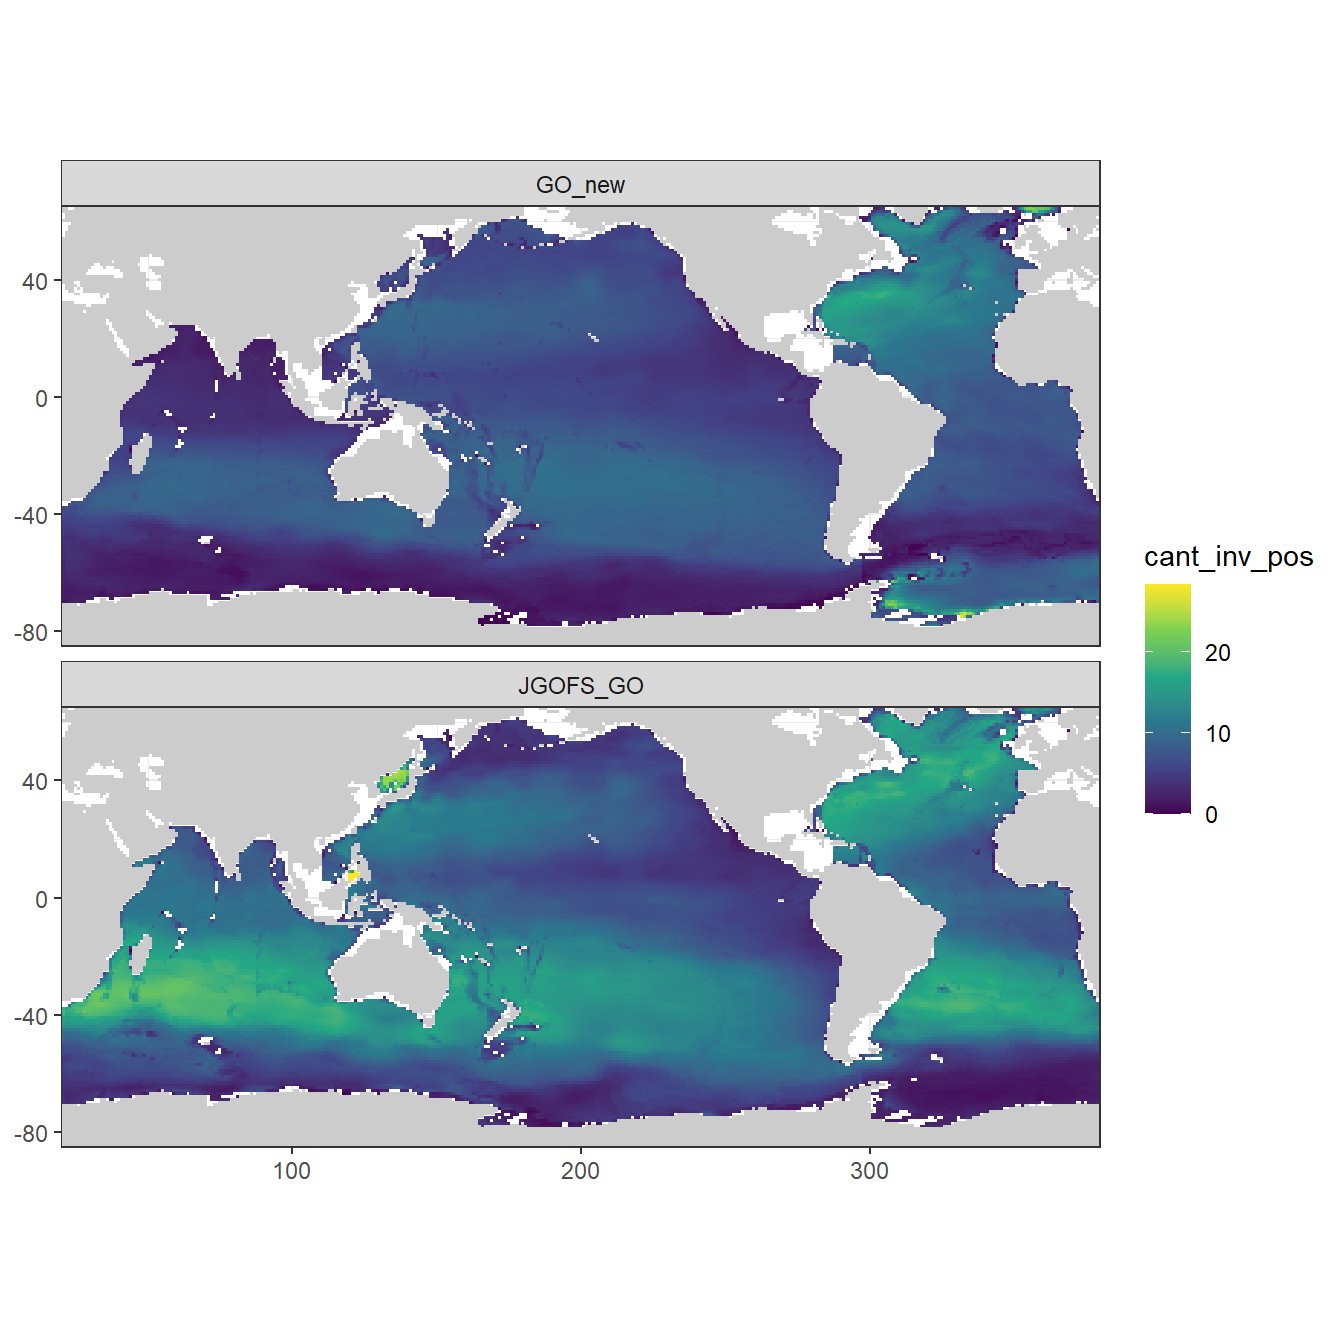
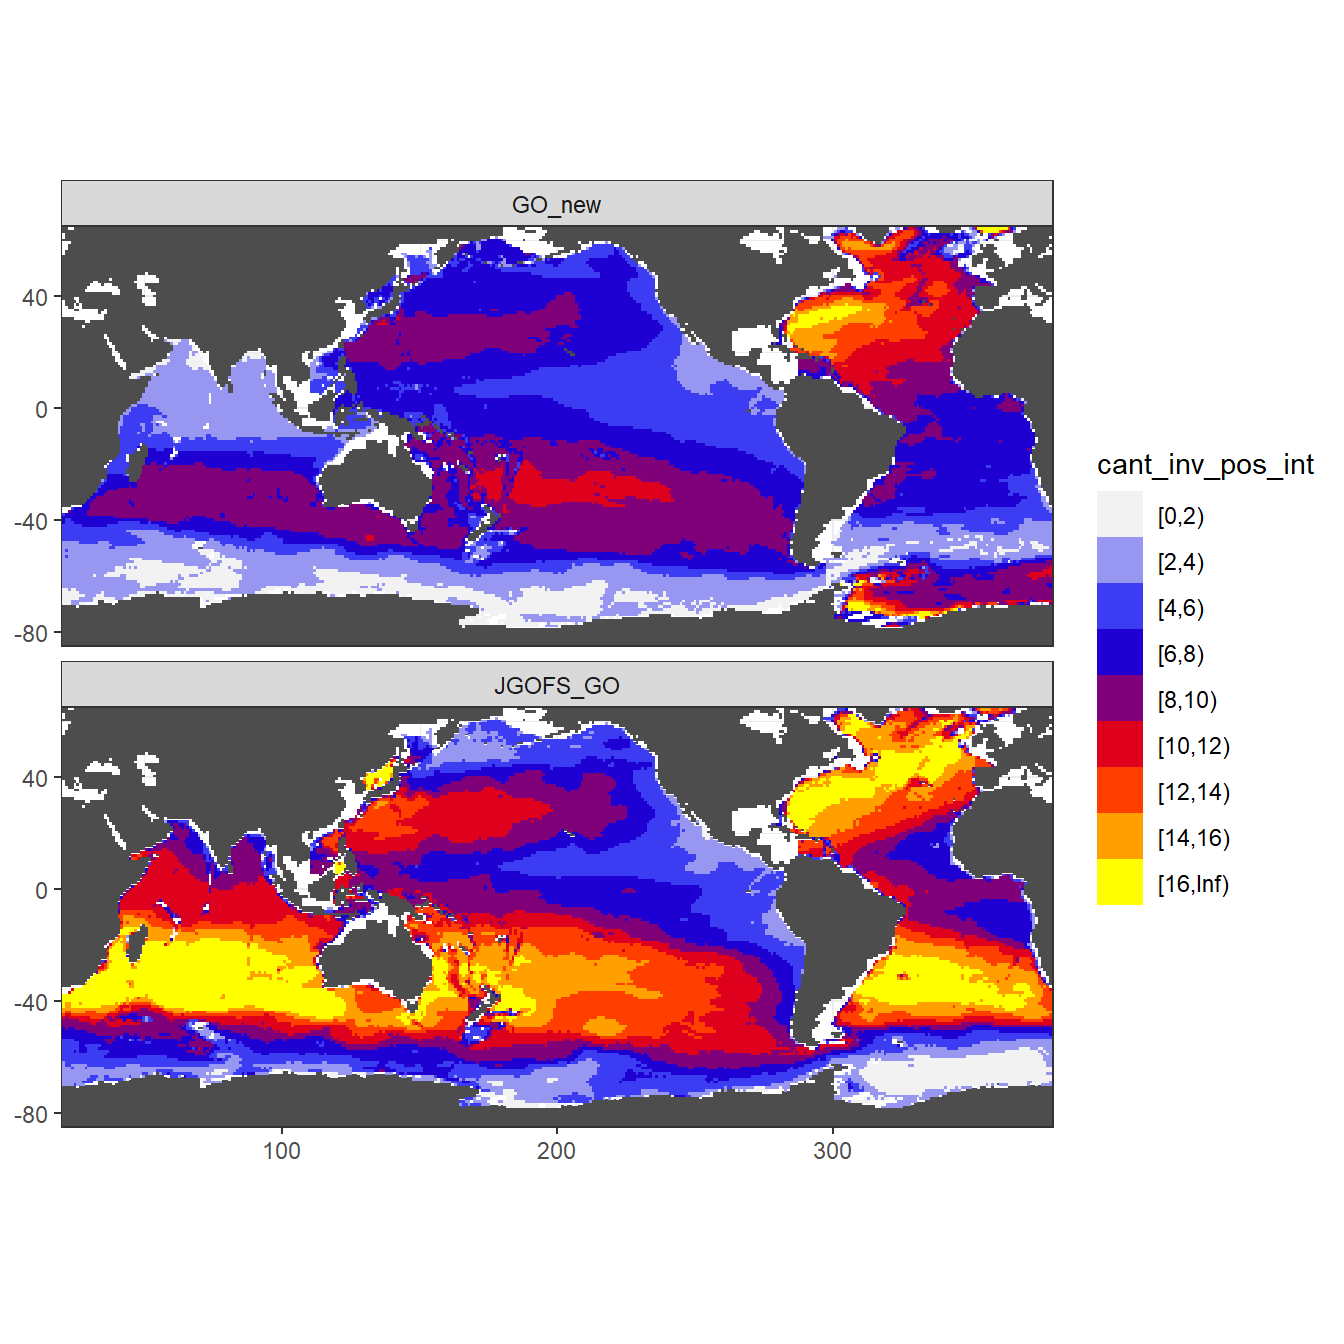
Build site.

diff --git a/docs/analysis_this_study.html b/docs/analysis_this_study.html
@@ -502,7 +502,7 @@ div.tocify {
 
 <h1 class="title toc-ignore">Analysis of Cant estimates</h1>
 <h4 class="author">Jens Daniel Müller</h4>
-<h4 class="date">17 September, 2020</h4>
+<h4 class="date">18 September, 2020</h4>
 
 </div>
 
@@ -527,7 +527,7 @@ div.tocify {
 <div class="tab-content">
 <div id="summary" class="tab-pane fade in active">
 <p>
-<strong>Last updated:</strong> 2020-09-17
+<strong>Last updated:</strong> 2020-09-18
 </p>
 <p>
 <strong>Checks:</strong> <span class="glyphicon glyphicon-ok text-success" aria-hidden="true"></span> 7 <span class="glyphicon glyphicon-exclamation-sign text-danger" aria-hidden="true"></span> 0
@@ -618,16 +618,16 @@ This reproducible <a href="http://rmarkdown.rstudio.com">R Markdown</a> analysis
 <div class="panel panel-default">
 <div class="panel-heading">
 <p class="panel-title">
-<a data-toggle="collapse" data-parent="#workflowr-checks" href="#strongRepositoryversionstrongahrefhttpsgithubcomjensdanielmuellerCanteMLRtree10c1a10e92b14633f68d5026d83584b859e0f98btargetblank10c1a10a"> <span class="glyphicon glyphicon-ok text-success" aria-hidden="true"></span> <strong>Repository version:</strong> <a href="https://github.com/jens-daniel-mueller/Cant_eMLR/tree/10c1a10e92b14633f68d5026d83584b859e0f98b" target="_blank">10c1a10</a> </a>
+<a data-toggle="collapse" data-parent="#workflowr-checks" href="#strongRepositoryversionstrongahrefhttpsgithubcomjensdanielmuellerCanteMLRtreedf65c0a7be403cb6f034bf72b37633b2c0448ec1targetblankdf65c0aa"> <span class="glyphicon glyphicon-ok text-success" aria-hidden="true"></span> <strong>Repository version:</strong> <a href="https://github.com/jens-daniel-mueller/Cant_eMLR/tree/df65c0a7be403cb6f034bf72b37633b2c0448ec1" target="_blank">df65c0a</a> </a>
 </p>
 </div>
[2 lines of base64/hex data omitted]
 <div class="panel-body">
 <p>
 Great! You are using Git for version control. Tracking code development and connecting the code version to the results is critical for reproducibility.
 </p>
 <p>
-The results in this page were generated with repository version <a href="https://github.com/jens-daniel-mueller/Cant_eMLR/tree/10c1a10e92b14633f68d5026d83584b859e0f98b" target="_blank">10c1a10</a>. See the <em>Past versions</em> tab to see a history of the changes made to the R Markdown and HTML files.
+The results in this page were generated with repository version <a href="https://github.com/jens-daniel-mueller/Cant_eMLR/tree/df65c0a7be403cb6f034bf72b37633b2c0448ec1" target="_blank">df65c0a</a>. See the <em>Past versions</em> tab to see a history of the changes made to the R Markdown and HTML files.
 </p>
 <p>
 Note that you need to be careful to ensure that all relevant files for the analysis have been committed to Git prior to generating the results (you can use <code>wflow_publish</code> or <code>wflow_git_commit</code>). workflowr only checks the R Markdown file, but you know if there are other scripts or data files that it depends on. Below is the status of the Git repository when the results were generated:
@@ -684,6 +684,40 @@ Message
 </tr>
 </thead>
 <tbody>
+<tr>
+<td>
+Rmd
+</td>
+<td>
+<a href="https://github.com/jens-daniel-mueller/Cant_eMLR/blob/df65c0a7be403cb6f034bf72b37633b2c0448ec1/analysis/analysis_this_study.Rmd" target="_blank">df65c0a</a>
+</td>
+<td>
+jens-daniel-mueller
+</td>
+<td>
+2020-09-18
+</td>
+<td>
+applied Gruber 2019 color scale
+</td>
+</tr>
+<tr>
+<td>
+html
+</td>
+<td>
+<a href="https://rawcdn.githack.com/jens-daniel-mueller/Cant_eMLR/f5a20ac37fec6f493801e53ba6e8a2cd0f03f23d/docs/analysis_this_study.html" target="_blank">f5a20ac</a>
+</td>
+<td>
+jens-daniel-mueller
+</td>
+<td>
+2020-09-17
+</td>
+<td>
+Build site.
+</td>
+</tr>
 <tr>
 <td>
 Rmd
@@ -1658,10 +1692,25 @@ Cstar_average_zonal &lt;-
     )
   )</code></pre>
 </div>
+<div id="color-scale" class="section level1">
+<h1><span class="header-section-number">2</span> Color scale</h1>
+<p>Definition of color scale as applied in Gruber et al (2019).</p>
+<pre class="r"><code>rgb2hex &lt;- function(r, g, b)
+  rgb(r, g, b, maxColorValue = 100)
+
+cols = c(rgb2hex(95, 95, 95),
+         rgb2hex(0, 0, 95),
+         rgb2hex(100, 0, 0),
+         rgb2hex(100, 100, 0))
+
+Gruber_rainbow &lt;- colorRampPalette(cols)
+
+rm(rgb2hex, cols)</code></pre>
+</div>
 <div id="neutral-density" class="section level1">
-<h1><span class="header-section-number">2</span> Neutral density</h1>
+<h1><span class="header-section-number">3</span> Neutral density</h1>
 <div id="slab-depth" class="section level2">
-<h2><span class="header-section-number">2.1</span> Slab depth</h2>
+<h2><span class="header-section-number">3.1</span> Slab depth</h2>
 <p>Please note that:</p>
 <ul>
 <li>density slabs covering values &gt;28.1 occur by definition only either in the Atlantic or Indo-Pacific basin</li>
@@ -1695,15 +1744,15 @@ ggplot() +
 <pre class="r"><code>rm(gamma_maps, GLODAP_obs_coverage)</code></pre>
 </div>
 <div id="surface-maps" class="section level2">
-<h2><span class="header-section-number">2.2</span> Surface maps</h2>
+<h2><span class="header-section-number">3.2</span> Surface maps</h2>
 <pre class="r"><code>map_climatology(Cant_average, &quot;gamma&quot;)</code></pre>
 <p><img src="figure/analysis_this_study.Rmd/gamma_surface_map-1.png" width="672" style="display: block; margin: auto;" /></p>
 </div>
 <div id="zonal-sections" class="section level2">
-<h2><span class="header-section-number">2.3</span> Zonal sections</h2>
+<h2><span class="header-section-number">3.3</span> Zonal sections</h2>
 <p>The mean zonal distribution of neutral densities was calculated. <strong>CAVEAT:</strong> Due to practical reasons, binning here does not include the two highest isoneutral density slabs in the Atlantic, yet.</p>
 <div id="mean" class="section level3">
-<h3><span class="header-section-number">2.3.1</span> Mean</h3>
+<h3><span class="header-section-number">3.3.1</span> Mean</h3>
 <pre class="r"><code>Cant_average_zonal %&gt;% 
   filter(eras == &quot;JGOFS_GO&quot;) %&gt;% 
   ggplot(aes(lat, depth, z = gamma_mean)) +
@@ -1723,7 +1772,7 @@ ggplot() +
 <p><img src="figure/analysis_this_study.Rmd/gamma_sections_mean-1.png" width="672" style="display: block; margin: auto;" /></p>
 </div>
 <div id="sd" class="section level3">
-<h3><span class="header-section-number">2.3.2</span> SD</h3>
+<h3><span class="header-section-number">3.3.2</span> SD</h3>
 <p>Higher SD of gamma in shallow, subtropical waters results from a more pronounced longitudinal variability.</p>
 <pre class="r"><code>Cant_average_zonal %&gt;% 
   filter(eras == &quot;JGOFS_GO&quot;) %&gt;% 
@@ -1741,25 +1790,25 @@ ggplot() +
 </div>
 </div>
 <div id="cant" class="section level1">
-<h1><span class="header-section-number">3</span> Cant</h1>
+<h1><span class="header-section-number">4</span> Cant</h1>
 <div id="zonal-sections-1" class="section level2">
-<h2><span class="header-section-number">3.1</span> Zonal sections</h2>
+<h2><span class="header-section-number">4.1</span> Zonal sections</h2>
 <div id="mean-1" class="section level3">
-<h3><span class="header-section-number">3.1.1</span> Mean</h3>
+<h3><span class="header-section-number">4.1.1</span> Mean</h3>
 <pre class="r"><code>section_zonal_average_divergent(Cant_average_zonal,
                                 &quot;Cant_mean&quot;,
                                 &quot;gamma_mean&quot;)</code></pre>
 <p><img src="figure/analysis_this_study.Rmd/Cant_sections_mean-1.png" width="672" style="display: block; margin: auto;" /></p>
 </div>
 <div id="mean-positive-values" class="section level3">
-<h3><span class="header-section-number">3.1.2</span> Mean positive values</h3>
+<h3><span class="header-section-number">4.1.2</span> Mean positive values</h3>
 <pre class="r"><code>section_zonal_average_continous(Cant_average_zonal,
                                 &quot;Cant_pos_mean&quot;,
                                 &quot;gamma_mean&quot;)</code></pre>
 <p><img src="figure/analysis_this_study.Rmd/Cant_sections_positive_mean-1.png" width="672" style="display: block; margin: auto;" /></p>
 </div>
 <div id="mean-standard-deviation-across-mlr-models" class="section level3">
-<h3><span class="header-section-number">3.1.3</span> Mean standard deviation across MLR models</h3>
+<h3><span class="header-section-number">4.1.3</span> Mean standard deviation across MLR models</h3>
 <p>Standard deviation across Cant from all MLR models was calculate for each grid cell (XYZ). The zonal mean of this standard deviation should reflect the uncertainty associated to the predictor selection within each slab and era.</p>
 <pre class="r"><code>section_zonal_average_continous(Cant_average_zonal,
                                 &quot;Cant_sd_mean&quot;,
@@ -1767,7 +1816,7 @@ ggplot() +
 <p><img src="figure/analysis_this_study.Rmd/Cant_sections_sd_models-1.png" width="672" style="display: block; margin: auto;" /></p>
 </div>
 <div id="standard-deviation-across-basin" class="section level3">
-<h3><span class="header-section-number">3.1.4</span> Standard deviation across basin</h3>
+<h3><span class="header-section-number">4.1.4</span> Standard deviation across basin</h3>
 <p>Standard deviation of mean Cant values was calculate across all longitudes. This standard deviation should reflect the zonal variability of Cant within the basin and era.</p>
 <pre class="r"><code>section_zonal_average_continous(Cant_average_zonal,
                                 &quot;Cant_sd&quot;,
@@ -1775,7 +1824,7 @@ ggplot() +
 <p><img src="figure/analysis_this_study.Rmd/Cant_sections_sd_Cant-1.png" width="672" style="display: block; margin: auto;" /></p>
 </div>
 <div id="predictor-contribution" class="section level3">
-<h3><span class="header-section-number">3.1.5</span> Predictor contribution</h3>
+<h3><span class="header-section-number">4.1.5</span> Predictor contribution</h3>
 <pre class="r"><code>for (variable in c(
   &quot;Cant_intercept&quot;,
   &quot;Cant_aou&quot;,
@@ -1798,28 +1847,28 @@ section_zonal_average_continous(Cant_predictor_average_zonal,
 </div>
 </div>
 <div id="sections-along-path" class="section level2">
-<h2><span class="header-section-number">3.2</span> Sections along path</h2>
+<h2><span class="header-section-number">4.2</span> Sections along path</h2>
 <div id="jgofs_go" class="section level3">
-<h3><span class="header-section-number">3.2.1</span> JGOFS_GO</h3>
+<h3><span class="header-section-number">4.2.1</span> JGOFS_GO</h3>
 <pre class="r"><code>section_global(Cant_average %&gt;% filter(eras == &quot;JGOFS_GO&quot;),
                     &quot;Cant&quot;)</code></pre>
 <p><img src="figure/analysis_this_study.Rmd/Cant_sections_positive_mean_one_lon_JGOFS_GO-1.png" width="672" style="display: block; margin: auto;" /></p>
 </div>
 <div id="go_new" class="section level3">
-<h3><span class="header-section-number">3.2.2</span> GO_new</h3>
+<h3><span class="header-section-number">4.2.2</span> GO_new</h3>
 <pre class="r"><code>section_global(Cant_average %&gt;% filter(eras == &quot;GO_new&quot;),
                     &quot;Cant&quot;)</code></pre>
 <p><img src="figure/analysis_this_study.Rmd/Cant_sections_positive_mean_one_lon_GO_new-1.png" width="672" style="display: block; margin: auto;" /></p>
 </div>
 </div>
 <div id="sections-by-model" class="section level2">
-<h2><span class="header-section-number">3.3</span> Sections by model</h2>
+<h2><span class="header-section-number">4.3</span> Sections by model</h2>
 <p>Zonal sections plots are produced for every 20° longitude, each era and for all models individually and can be downloaded <a href="https://github.com/jens-daniel-mueller/Cant_eMLR/tree/master/output/figure/mapping" target="_blank">here</a>.</p>
 </div>
 <div id="maps" class="section level2">
-<h2><span class="header-section-number">3.4</span> Maps</h2>
+<h2><span class="header-section-number">4.4</span> Maps</h2>
 <div id="surfaces" class="section level3">
-<h3><span class="header-section-number">3.4.1</span> Surfaces</h3>
+<h3><span class="header-section-number">4.4.1</span> Surfaces</h3>
 <p>Cant concentration for selected depth levels at which mapping was performed.</p>
 <pre class="r"><code>Cant_average %&gt;%
   filter(depth %in% parameters$depth_levels) %&gt;%
@@ -1836,7 +1885,7 @@ section_zonal_average_continous(Cant_predictor_average_zonal,
 <p><img src="figure/analysis_this_study.Rmd/Cant_depth_layer_maps-1.png" width="672" style="display: block; margin: auto;" /></p>
 </div>
 <div id="distribution-along-slab" class="section level3">
-<h3><span class="header-section-number">3.4.2</span> Distribution along slab</h3>
+<h3><span class="header-section-number">4.4.2</span> Distribution along slab</h3>
 <pre class="r"><code>Cant_gamma_maps &lt;- Cant_average %&gt;% 
   group_by(lat, lon, gamma_slab, eras) %&gt;% 
   summarise(Cant = mean(Cant, na.rm = TRUE)) %&gt;% 
@@ -1864,13 +1913,21 @@ ggplot() +
   ungroup()
 
 
+breaks &lt;- c(seq(0,16,2),Inf)
+breaks_n &lt;- length(breaks) - 1
+
+Cant_gamma_maps &lt;- Cant_gamma_maps %&gt;% 
+  mutate(Cant_pos_int = cut(Cant_pos, 
+                                breaks,
+                                right = FALSE))
+
 ggplot() +
   geom_raster(data = landmask,
               aes(lon, lat),
-              fill = &quot;grey80&quot;) +
-  geom_raster(data = Cant_gamma_maps %&gt;% filter(Cant_pos &lt;= 20),
-              aes(lon, lat, fill = Cant_pos)) +
-  scale_fill_gradientn(colours = c(&quot;white&quot;,&quot;blue&quot;,&quot;red&quot;,&quot;yellow&quot;)) +
+              fill = &quot;grey30&quot;) +
+  geom_raster(data = Cant_gamma_maps,
+              aes(lon, lat, fill = Cant_pos_int)) +
+  scale_fill_manual(values = Gruber_rainbow(breaks_n)) +
   facet_grid(gamma_slab ~ eras) +
   coord_quickmap(expand = 0) +
   theme(axis.title = element_blank(),
@@ -1878,12 +1935,12 @@ ggplot() +
         axis.text = element_blank(),
         legend.position = &quot;top&quot;)</code></pre>
 <p><img src="figure/analysis_this_study.Rmd/Cant_pos_gamma_slab_maps-1.png" width="672" style="display: block; margin: auto;" /></p>
-<pre class="r"><code>rm(Cant_gamma_maps)</code></pre>
+<pre class="r"><code>rm(Cant_gamma_maps, breaks, breaks_n)</code></pre>
 </div>
 <div id="inventories" class="section level3">
-<h3><span class="header-section-number">3.4.3</span> Inventories</h3>
+<h3><span class="header-section-number">4.4.3</span> Inventories</h3>
 <div id="all-cant" class="section level4">
-<h4><span class="header-section-number">3.4.3.1</span> All Cant</h4>
+<h4><span class="header-section-number">4.4.3.1</span> All Cant</h4>
 <pre class="r"><code>Cant_inv %&gt;% 
   ggplot() +
     geom_raster(data = landmask,
@@ -1903,24 +1960,30 @@ ggplot() +
 <p><img src="figure/analysis_this_study.Rmd/Cant_inventory_map-1.png" width="672" style="display: block; margin: auto;" /></p>
 </div>
 <div id="positive-cant" class="section level4">
-<h4><span class="header-section-number">3.4.3.2</span> Positive Cant</h4>
-<pre class="r"><code>Cant_inv %&gt;% 
+<h4><span class="header-section-number">4.4.3.2</span> Positive Cant</h4>
+<pre class="r"><code>breaks &lt;- c(seq(0,16,2),Inf)
+breaks_n &lt;- length(breaks) - 1
+
+Cant_inv &lt;- Cant_inv %&gt;% 
+  mutate(cant_inv_pos_int = cut(cant_inv_pos, 
+                                breaks,
+                                right = FALSE))
+Cant_inv %&gt;%
   ggplot() +
-    geom_raster(data = landmask,
-                aes(lon, lat), fill = &quot;grey80&quot;) +
-    geom_raster(aes(lon, lat, fill = cant_inv_pos)) +
-    coord_quickmap(expand = 0) +
-    scale_fill_viridis_c() +
-  facet_wrap(~eras, ncol = 1) +
-    theme(
-      axis.title = element_blank()
-    )</code></pre>
+  geom_raster(data = landmask,
+              aes(lon, lat), fill = &quot;grey30&quot;) +
+  geom_raster(aes(lon, lat, fill = cant_inv_pos_int)) +
+  coord_quickmap(expand = 0) +
+  scale_fill_manual(values = Gruber_rainbow(breaks_n)) +
+  facet_wrap( ~ eras, ncol = 1) +
+  theme(axis.title = element_blank())</code></pre>
 <p><img src="figure/analysis_this_study.Rmd/Cant_pos_inventory_map-1.png" width="672" style="display: block; margin: auto;" /></p>
+<pre class="r"><code>rm(breaks, breaks_n)</code></pre>
 </div>
 </div>
 </div>
 <div id="cant-vs-model-sd" class="section level2">
-<h2><span class="header-section-number">3.5</span> Cant vs model SD</h2>
+<h2><span class="header-section-number">4.5</span> Cant vs model SD</h2>
 <pre class="r"><code>Cant_average %&gt;% 
   ggplot(aes(Cant, Cant_sd)) +
   geom_vline(xintercept = 0) +
@@ -1945,7 +2008,7 @@ ggplot() +
 <p><img src="figure/analysis_this_study.Rmd/Cant_vs_sd_by_basin_gamma-1.png" width="672" style="display: block; margin: auto;" /></p>
 </div>
 <div id="cant-vs-regional-sd" class="section level2">
-<h2><span class="header-section-number">3.6</span> Cant vs regional SD</h2>
+<h2><span class="header-section-number">4.6</span> Cant vs regional SD</h2>
 <pre class="r"><code>Cant_average_zonal %&gt;% 
   ggplot(aes(Cant_mean, Cant_sd)) +
   geom_vline(xintercept = 0) +
@@ -1971,7 +2034,7 @@ ggplot() +
 </div>
 </div>
 <div id="cstar" class="section level1">
-<h1><span class="header-section-number">4</span> Cstar</h1>
+<h1><span class="header-section-number">5</span> Cstar</h1>
 <pre class="r"><code>Cstar_average_zonal &lt;- Cstar_average_zonal %&gt;% 
     mutate(era = factor(era, c(&quot;JGOFS_WOCE&quot;, &quot;GO_SHIP&quot;, &quot;new_era&quot;))) 
 
